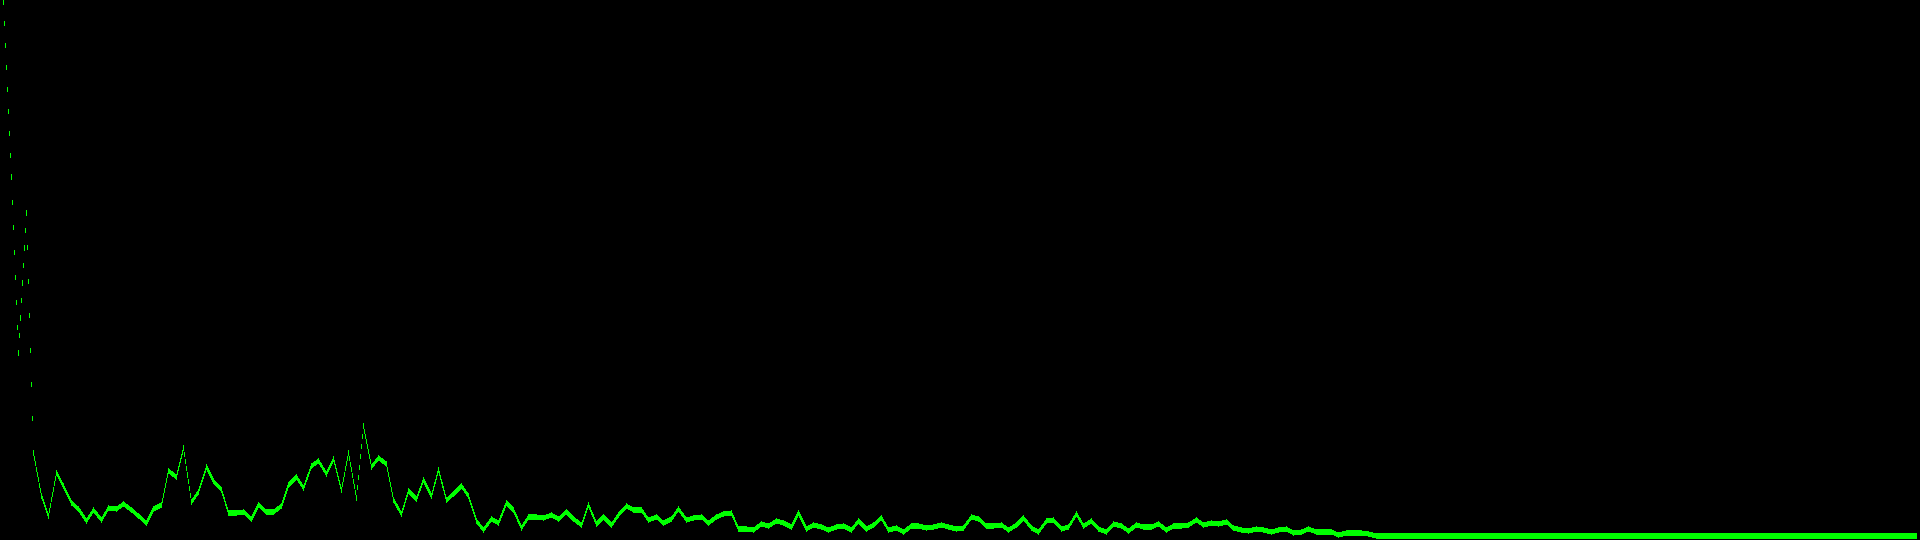
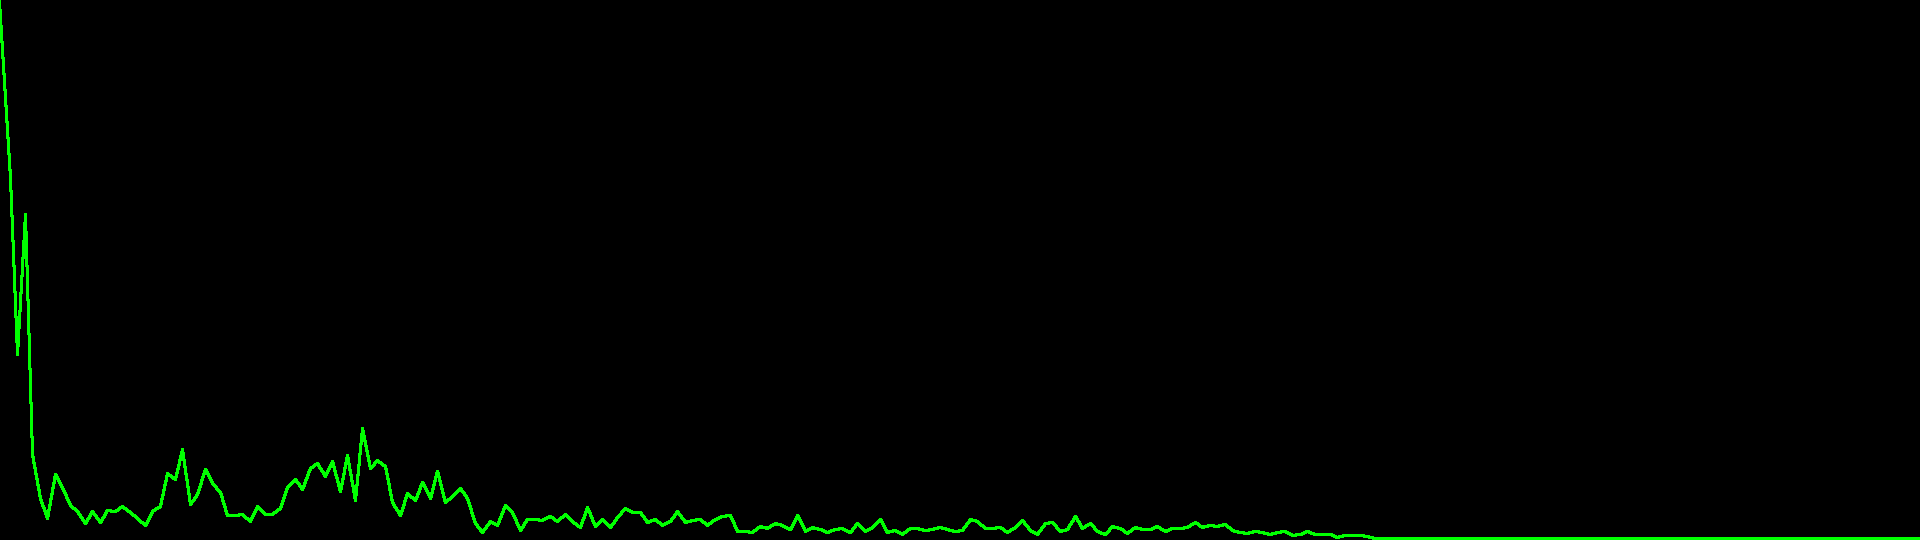
Fixed line thickness

diff --git a/styles.py b/styles.py
@@ -1,6 +1,5 @@
-# from arguments import args						# Does not work for some reason
 import numpy as np
-from skimage.draw import disk, polygon
+from skimage.draw import disk, line as line_, polygon
 
 def renderFrame(args, bins, j):
 	frame = np.full((args.height, int(args.bins*(args.binWidth+args.binSpacing)), 3), args.backgroundColor)
@@ -10,8 +9,6 @@ def renderFrame(args, bins, j):
 		for k in range(args.bins):
 			frame[int(0):int(np.ceil(bins[j,k]*args.height)),
 			int(k*args.binWidth + k*args.binSpacing):int((k+1)*args.binWidth + k*args.binSpacing)] = args.color
-		frame = np.flipud(frame)
-		return frame
 
 	if(args.style == "bars" and args.barHeight != -1 or args.style == "circles" or args.style == "donuts"):
 		point = renderPoint(args)
@@ -22,11 +19,11 @@ def renderFrame(args, bins, j):
 
 			frame[int(np.ceil(bins[j,k]*binSpace)):int(np.ceil(bins[j,k]*binSpace + point.shape[0])),
 			binStart + offset:binStart + point.shape[1] + offset] = point
-		frame = np.flipud(frame)
-		return frame
 
 	if(args.style == "line"):
 		binSpace = args.height - args.lineThickness
+		paddedFrame = np.full((args.height, int(args.bins*(args.binWidth+args.binSpacing) + 2*args.lineThickness), 3), args.backgroundColor)
+		paddedFrame = paddedFrame.astype(np.uint8)
 		for k in range(args.bins - 1):
 			startY = int(bins[j,k]*binSpace)
 			if(k == 0):
@@ -38,25 +35,20 @@ def renderFrame(args, bins, j):
 				endX = frame.shape[1] - 1
 			else:
 				endX = int((k+1) * (args.binWidth + args.binSpacing) + 0.5 * (args.binWidth + args.binSpacing))
-			line = np.array((
-				(startY + args.lineThickness, startX),					# Up Left
-				(startY, startX),										# Down Left
-				(endY, endX),											# Down Right
-				(endY + args.lineThickness, endX),						# Up Right
-			))
-			start, end = polygon(line[:, 0], line[:, 1], frame.shape)
-			frame[start, end] = args.color
-		frame = np.flipud(frame)
-		return frame
+
+			rr, cc = line_(startY, startX, endY, endX)
+			for i in range(len(rr)):
+				paddedFrame[rr[i]:int(rr[i]+args.lineThickness), int(cc[i] + 0.5*args.lineThickness):int(cc[i]+ 1.5*args.lineThickness)] = args.color
+		frame = paddedFrame[:,int(args.lineThickness):int(-args.lineThickness)]
 
 	if(args.style == "fill"):
 		for k in range(args.bins - 1):
-			startY = int(bins[j,k]*args.height)
+			startY = np.ceil(bins[j,k]*args.height)
 			if(k == 0):
 				startX = 0
 			else:
 				startX = int(k * (args.binWidth + args.binSpacing) + 0.5 * (args.binWidth + args.binSpacing))
-			endY = int(bins[j,k+1]*args.height)
+			endY = np.ceil(bins[j,k+1]*args.height)
 			if(k == args.bins - 2):
 				endX = frame.shape[1] - 1
 			else:
@@ -69,8 +61,9 @@ def renderFrame(args, bins, j):
 			))
 			start, end = polygon(line[:, 0], line[:, 1], frame.shape)
 			frame[start, end] = args.color
-		frame = np.flipud(frame)
-		return frame
+
+	frame = np.flipud(frame)
+	return frame
 
 
 def renderPoint(args):

diff --git a/arguments.py b/arguments.py
@@ -88,7 +88,7 @@ def initArgs():
 	parser.add_argument("-bht", "--barHeight", type=float, default=-1,
 						help="Height of the bars in px. Default: full")
 
-	parser.add_argument("-lt", "--lineThickness", type=float, default=-1,
+	parser.add_argument("-lt", "--lineThickness", type=float, default=1,
 					help="Thickness of the line in px. Default: 1")
 
 	parser.add_argument("-c", "--color", type=str, default="ffffff",

diff --git a/README.md b/README.md
@@ -124,7 +124,7 @@ Donuts: `python AudioSpectrumVisualizer.py <Path to Audio File> <Destination Fol
 
 <img src="screenshots/donuts.png" alt="default" style="zoom: 50%;" />
 
-Line `python AudioSpectrumVisualizer.py <Path to Audio File> <Destination Folder> -b 256 -st line -lt 5 -c lime`
+Line `python AudioSpectrumVisualizer.py <Path to Audio File> <Destination Folder> -b 256 -st line -lt 3 -c lime`
 
 <img src="screenshots/line.png" alt="default" style="zoom: 50%;" />
 
